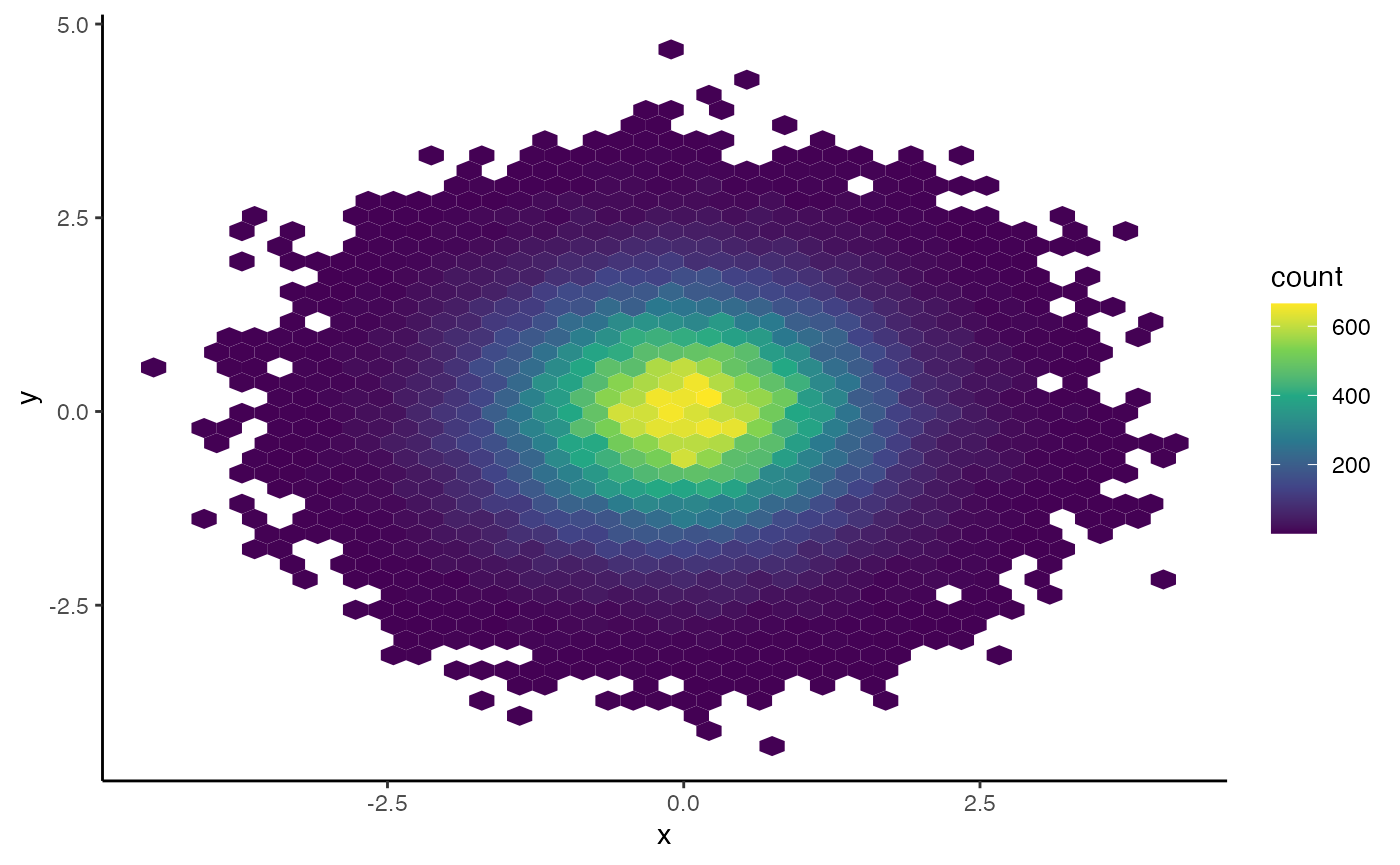
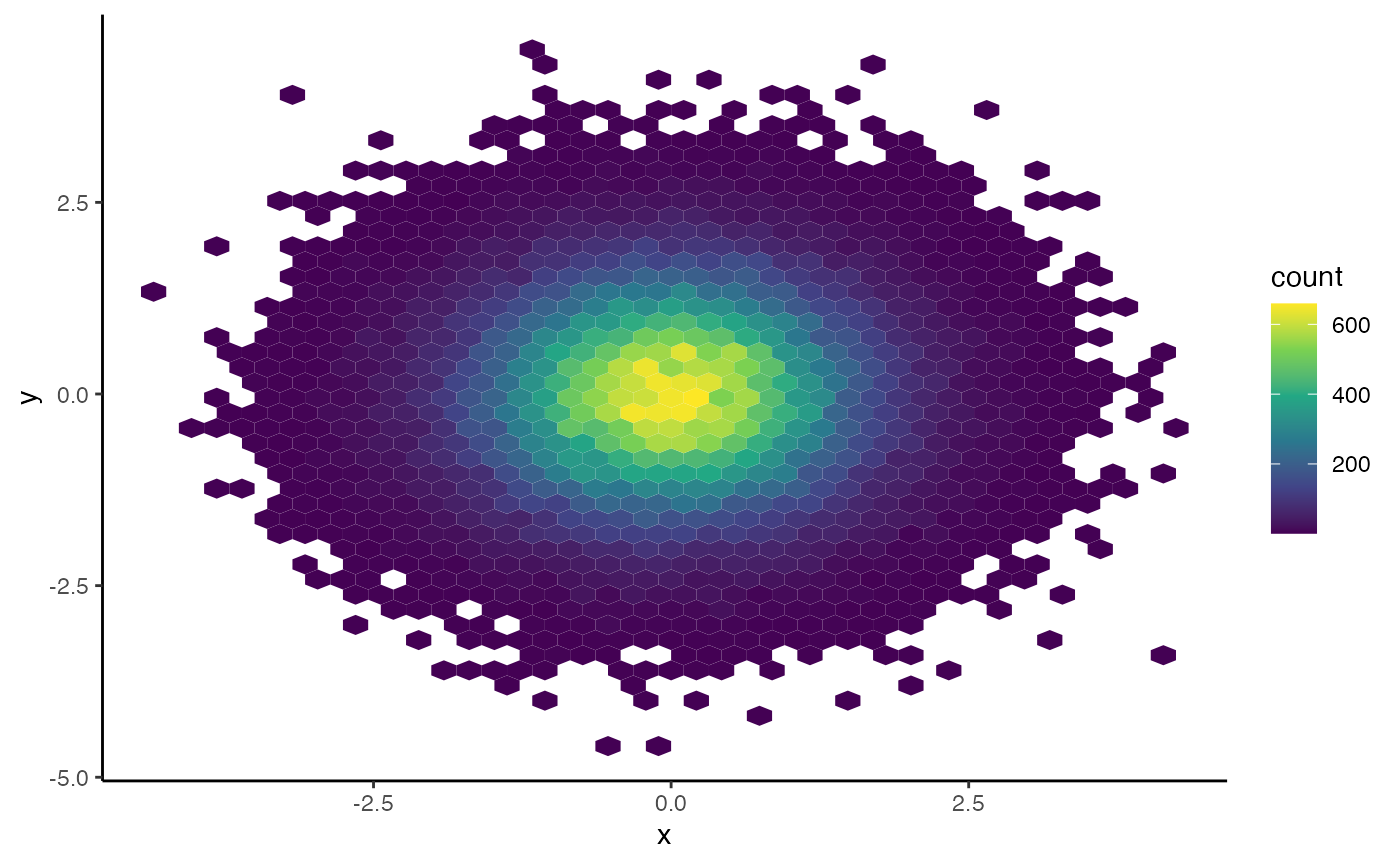
Building packagedown

diff --git a/docs/articles/HGUTheme.html b/docs/articles/HGUTheme.html
@@ -181,16 +181,16 @@ regression line on top. First we can make some fake data</p>
 <span><span class="co">#&gt; <span style="color: #949494;"># A tibble: 100 × 2</span></span></span>
 <span><span class="co">#&gt;         x       y</span></span>
 <span><span class="co">#&gt;     <span style="color: #949494; font-style: italic;">&lt;dbl&gt;</span>   <span style="color: #949494; font-style: italic;">&lt;dbl&gt;</span></span></span>
-<span><span class="co">#&gt; <span style="color: #BCBCBC;"> 1</span> 0.052<span style="text-decoration: underline;">6</span>  0.109 </span></span>
-<span><span class="co">#&gt; <span style="color: #BCBCBC;"> 2</span> 0.129   0.186 </span></span>
-<span><span class="co">#&gt; <span style="color: #BCBCBC;"> 3</span> 0.757   0.548 </span></span>
-<span><span class="co">#&gt; <span style="color: #BCBCBC;"> 4</span> 0.784   0.891 </span></span>
-<span><span class="co">#&gt; <span style="color: #BCBCBC;"> 5</span> 0.985   1.13  </span></span>
-<span><span class="co">#&gt; <span style="color: #BCBCBC;"> 6</span> 0.613   0.362 </span></span>
-<span><span class="co">#&gt; <span style="color: #BCBCBC;"> 7</span> 0.264   0.088<span style="text-decoration: underline;">1</span></span></span>
-<span><span class="co">#&gt; <span style="color: #BCBCBC;"> 8</span> 0.833   1.17  </span></span>
-<span><span class="co">#&gt; <span style="color: #BCBCBC;"> 9</span> 0.116  -<span style="color: #BB0000;">0.115</span> </span></span>
-<span><span class="co">#&gt; <span style="color: #BCBCBC;">10</span> 0.534   0.818 </span></span>
+<span><span class="co">#&gt; <span style="color: #BCBCBC;"> 1</span> 0.775   0.697 </span></span>
+<span><span class="co">#&gt; <span style="color: #BCBCBC;"> 2</span> 0.950   0.936 </span></span>
+<span><span class="co">#&gt; <span style="color: #BCBCBC;"> 3</span> 0.094<span style="text-decoration: underline;">3</span>  0.177 </span></span>
+<span><span class="co">#&gt; <span style="color: #BCBCBC;"> 4</span> 0.719   1.06  </span></span>
+<span><span class="co">#&gt; <span style="color: #BCBCBC;"> 5</span> 0.119   0.101 </span></span>
+<span><span class="co">#&gt; <span style="color: #BCBCBC;"> 6</span> 0.025<span style="text-decoration: underline;">4</span> -<span style="color: #BB0000;">0.035</span><span style="color: #BB0000; text-decoration: underline;">5</span></span></span>
+<span><span class="co">#&gt; <span style="color: #BCBCBC;"> 7</span> 0.759   0.891 </span></span>
+<span><span class="co">#&gt; <span style="color: #BCBCBC;"> 8</span> 0.426   0.087<span style="text-decoration: underline;">8</span></span></span>
+<span><span class="co">#&gt; <span style="color: #BCBCBC;"> 9</span> 0.090<span style="text-decoration: underline;">8</span>  0.072<span style="text-decoration: underline;">7</span></span></span>
+<span><span class="co">#&gt; <span style="color: #BCBCBC;">10</span> 0.271   0.298 </span></span>
 <span><span class="co">#&gt; <span style="color: #949494;"># … with 90 more rows</span></span></span></code></pre></div>
 <p>Then we can make a simple plot that you might make for a
 presentation:</p>

diff --git a/docs/reference/scale_colour_hgu.html b/docs/reference/scale_colour_hgu.html
@@ -74,7 +74,7 @@
 <span>  drop <span class="op">=</span> <span class="cn">TRUE</span>,</span>
 <span>  guide <span class="op">=</span> <span class="st">"legend"</span>,</span>
 <span>  position <span class="op">=</span> <span class="st">"left"</span>,</span>
-<span>  super <span class="op">=</span> <span class="va">ScaleDiscrete</span></span>
+<span>  super <span class="op">=</span> <span class="fu">ggplot2</span><span class="fu">::</span><span class="va"><a href="https://ggplot2.tidyverse.org/reference/ggplot2-ggproto.html" class="external-link">ScaleDiscrete</a></span></span>
 <span><span class="op">)</span></span></code></pre></div>
     </div>
 

diff --git a/docs/reference/scale_fill_hgu.html b/docs/reference/scale_fill_hgu.html
@@ -74,7 +74,7 @@
 <span>  drop <span class="op">=</span> <span class="cn">TRUE</span>,</span>
 <span>  guide <span class="op">=</span> <span class="st">"legend"</span>,</span>
 <span>  position <span class="op">=</span> <span class="st">"left"</span>,</span>
-<span>  super <span class="op">=</span> <span class="va">ScaleDiscrete</span></span>
+<span>  super <span class="op">=</span> <span class="fu">ggplot2</span><span class="fu">::</span><span class="va"><a href="https://ggplot2.tidyverse.org/reference/ggplot2-ggproto.html" class="external-link">ScaleDiscrete</a></span></span>
 <span><span class="op">)</span></span></code></pre></div>
     </div>
 

diff --git a/docs/reference/hgu_palette.html b/docs/reference/hgu_palette.html
@@ -78,7 +78,7 @@
 <span class="r-out co"><span class="r-pr">#&gt;</span> {</span>
 <span class="r-out co"><span class="r-pr">#&gt;</span>     c(hgu_dark(), hgu_mid(), hgu_light())</span>
 <span class="r-out co"><span class="r-pr">#&gt;</span> }</span>
-<span class="r-out co"><span class="r-pr">#&gt;</span> &lt;bytecode: 0x7f9c00965078&gt;</span>
+<span class="r-out co"><span class="r-pr">#&gt;</span> &lt;bytecode: 0x7fd95a6894d8&gt;</span>
 <span class="r-out co"><span class="r-pr">#&gt;</span> &lt;environment: namespace:HGUTheme&gt;</span>
 </code></pre></div>
     </div>
